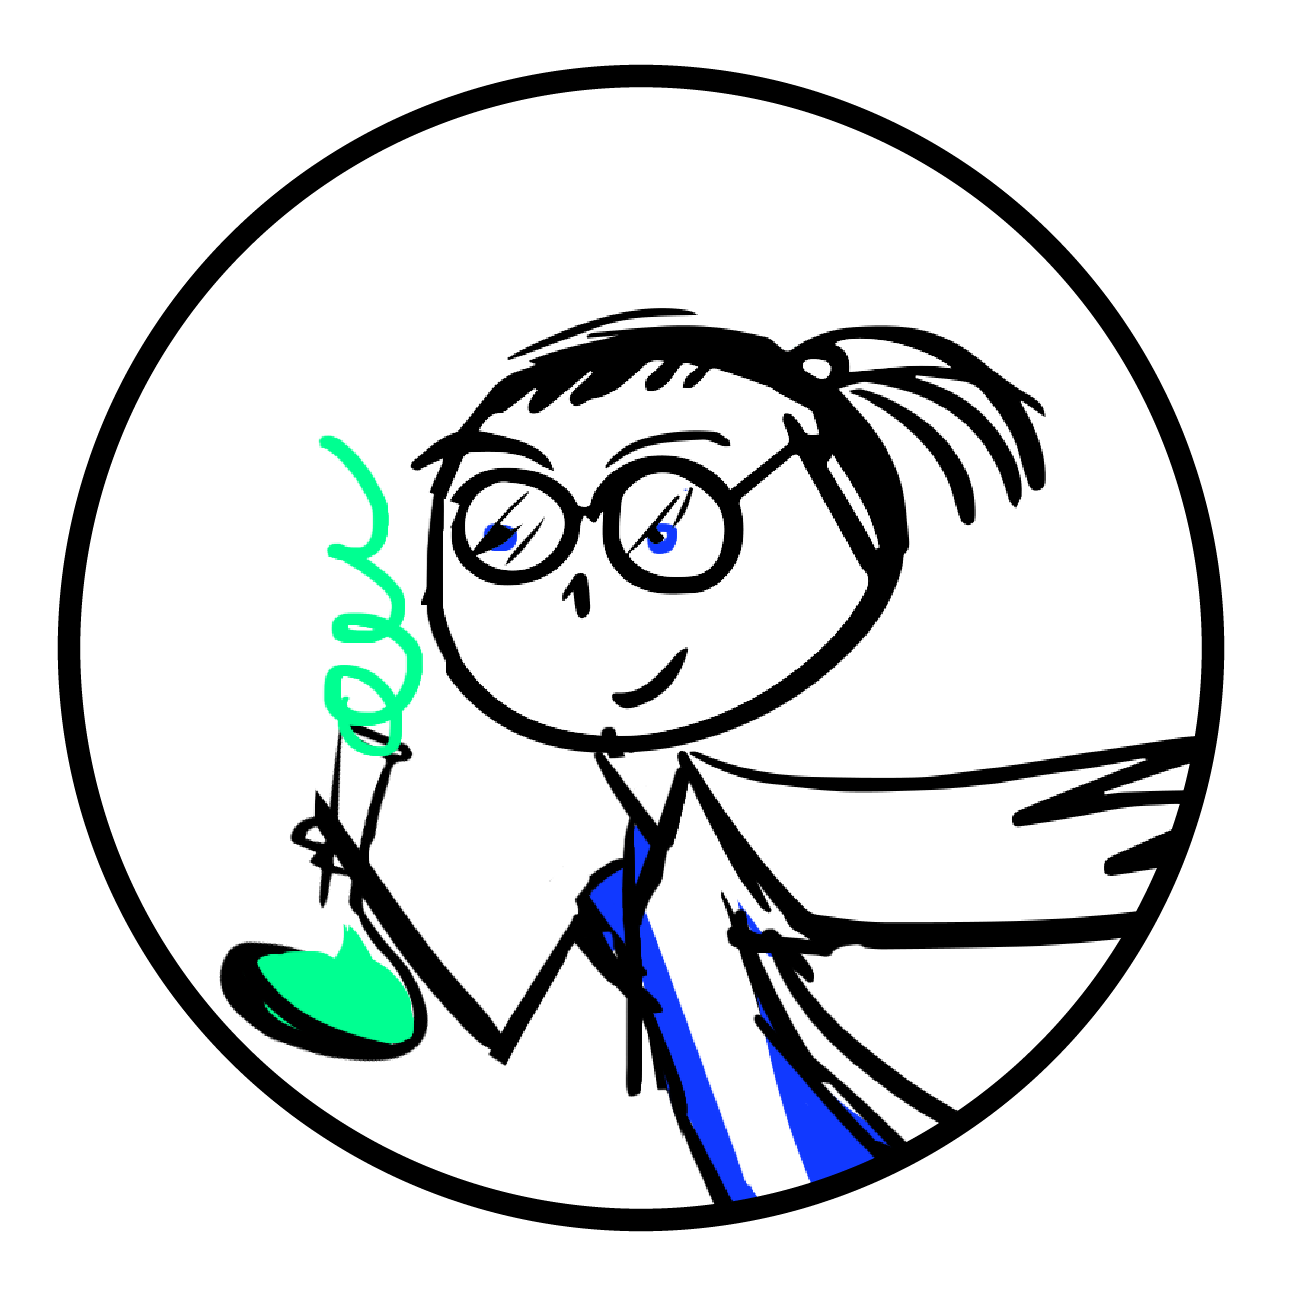
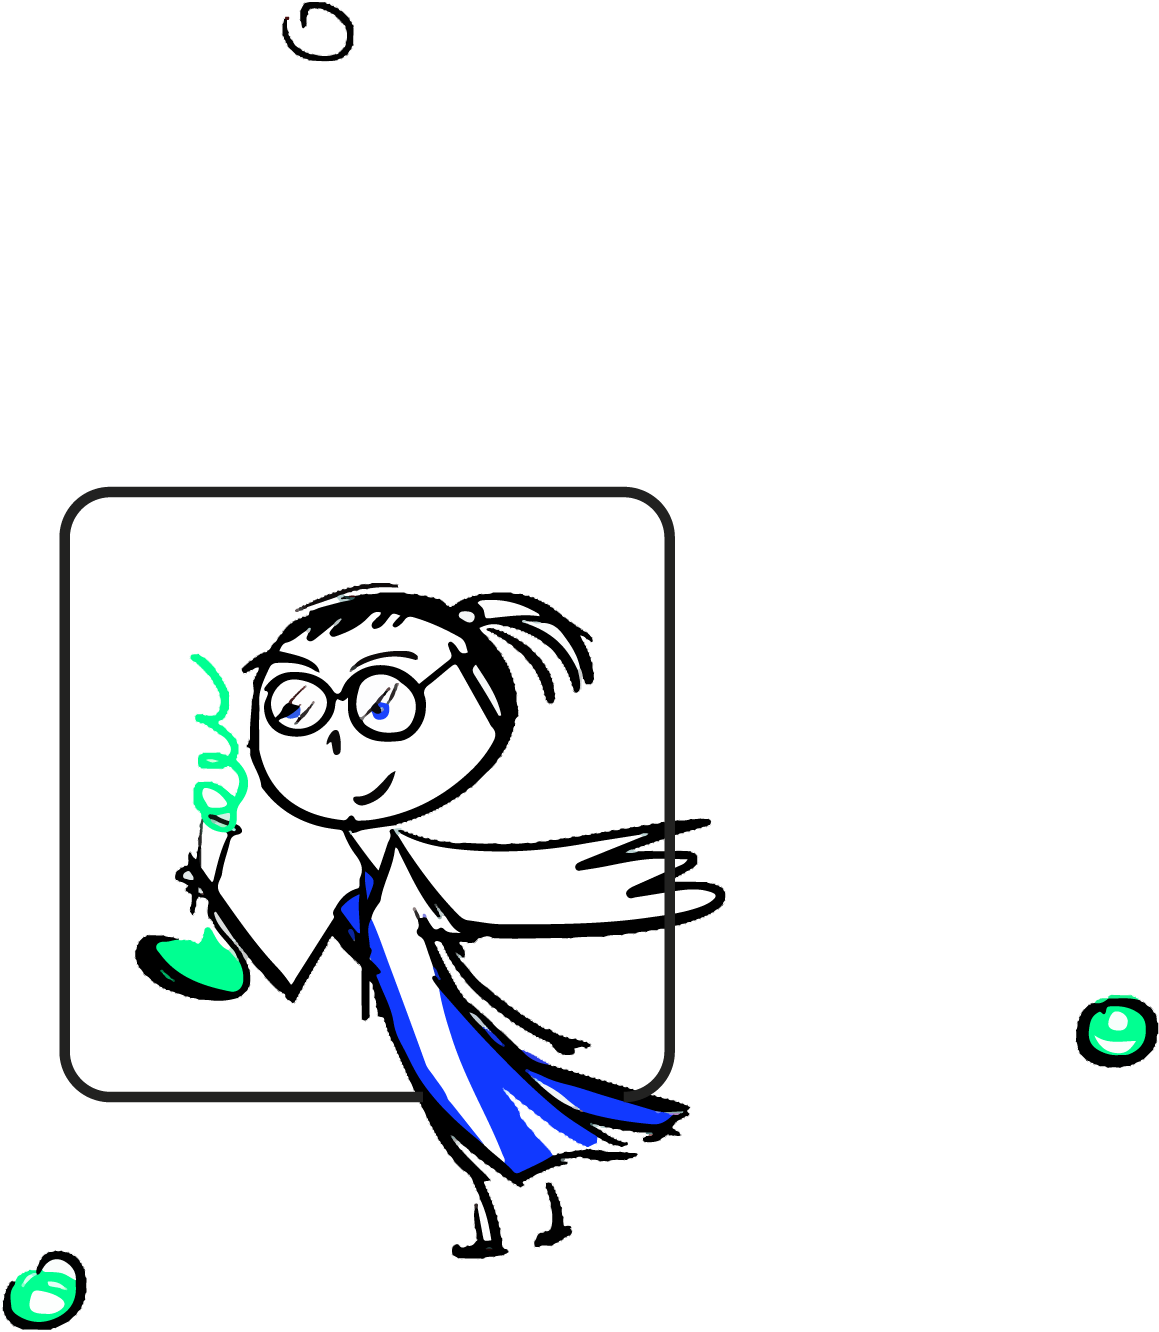
add char page

diff --git a/src/App.tsx b/src/App.tsx
@@ -2,34 +2,97 @@ import { Navigation } from "./components/Navigation/Navigation.js";
 import { Progress } from "@/components/ui/progress";
 import "./App.css";
 import pic from "./components/Picture/chemik.png";
+import { useEffect, useState } from "react";
+import Badge from "/badge.png";
+import Badge1 from "/badge1.png";
+import { ChevronRight } from "lucide-react";
 
 export const App = () => {
+  const [progress1, setProgress1] = useState(0);
+  const [progress2, setProgress2] = useState(0);
+  const [progress3, setProgress3] = useState(0);
+
+  useEffect(() => {
+    setTimeout(() => {
+      setProgress1(41);
+    }, 500);
+    setTimeout(() => {
+      setProgress2(63);
+    }, 700);
+    setTimeout(() => {
+      setProgress3(52);
+    }, 900);
+  }, []);
   return (
     <main className="w-full">
       <header className="header">
         <Navigation />
       </header>
-      <div className="wrapper">
-        <section className="column column--1">
-          <div className="title">UMIEJĘTNOŚCI</div>
-          <div className="progressBars">
-            <Progress value={41} className="bg-[#282828]" />
-            <Progress value={63} className="bg-[#282828]" />
-            <Progress value={52} className="bg-[#282828]" />
+      <div className="wrapper pt-32 w-10/12 mx-auto grid grid-cols-3 h-[700px]">
+        <section className="flex flex-col justify-between">
+          <div className="flex flex-col gap-y-4">
+            <p className="text-black text-2xl font-bold">
+              ŚCIEŻKA SZALONY CHEMIK
+            </p>
+            <p className="text-black text-xl">UMIEJĘTNOŚCI</p>
+            <div className="progressBars">
+              <Progress
+                value={progress1}
+                className="bg-[#282828] h-8 [&_span]:left-6"
+              />
+              <Progress
+                value={progress2}
+                className="bg-[#282828] h-8 [&_span]:left-6"
+              />
+              <Progress
+                value={progress3}
+                className="bg-[#282828] h-8 [&_span]:left-6"
+              />
+            </div>
+          </div>
+          <div className="flex flex-col items-start">
+            <div className="flex">
+              <ChevronRight className="w-10 h-10 text-black" />
+              <p className="text-xl flex items-center uppercase  text-black">
+                Wychowawca
+              </p>
+            </div>
+            <div className="flex">
+              <ChevronRight className="w-10 h-10 text-black" />
+              <p className="text-xl flex items-center uppercase  text-black">
+                Mentor Kierunkowy
+              </p>
+            </div>
+            <div className="flex">
+              <ChevronRight className="w-10 h-10 text-black" />
+              <p className="text-xl flex items-center uppercase  text-black">
+                Talenty/predyspozycje
+              </p>
+            </div>
           </div>
         </section>
 
-        <section className="column column--2">
-          <img src={pic} width="300px" />
-          <div className="title">ŚCIEŻKA SZALONY CHEMIK</div>
+        <section className="flex w-full justify-end">
+          <img
+            src={pic}
+            width="500px"
+            className="absolute top-[-2%] left-[42%] "
+          />
         </section>
 
-        <section className="column column--3">
-          <div className="title">AKTUALNE ZADANIA</div>
-
-          <div className="zadania">ZADANIE</div>
-          <div className="zadania">ZADANIE</div>
-          <div className="zadania">ZADANIE</div>
+        <section className="z-10 w-full flex  items-end gap-y-10  flex-col">
+          <div className="flex  items-center gap-x-6">
+            <span className="text-xl uppercase  text-black">
+              achievement badge
+            </span>
+            <img src={Badge} className="h-20 w-20" />
+          </div>
+          <div className="flex  items-center gap-x-6">
+            <span className="text-xl uppercase  text-black">
+              achievement badge
+            </span>
+            <img src={Badge1} className="h-20 w-20" />
+          </div>
         </section>
       </div>
     </main>
